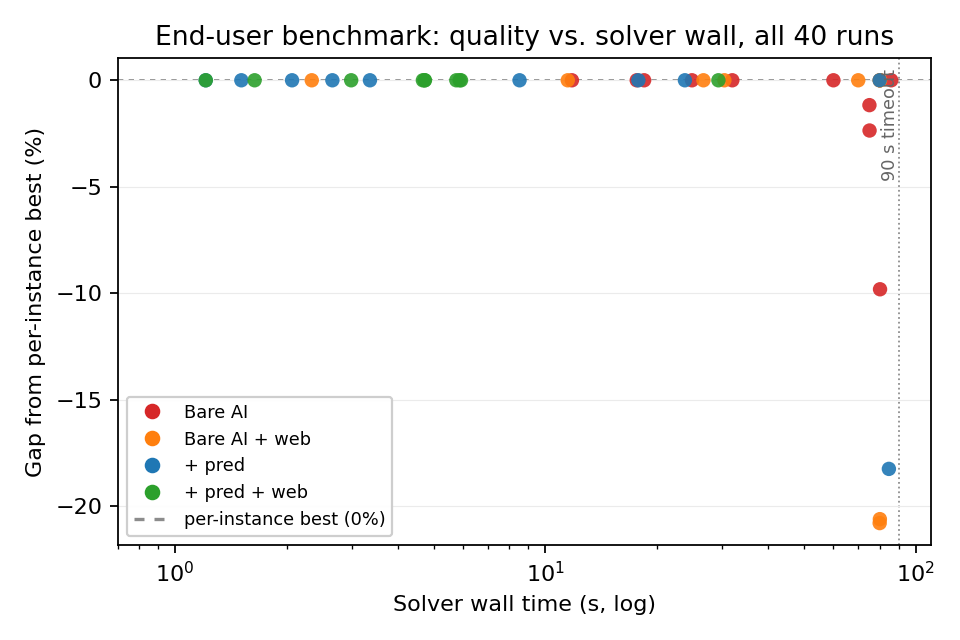
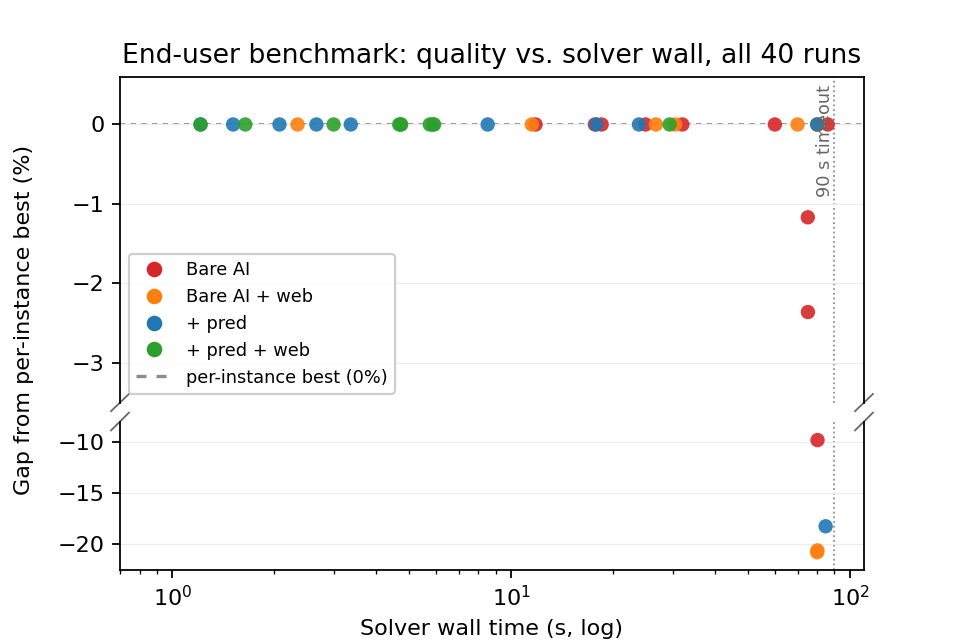
Auto-commit: Claude Code edits [11:05:36]

diff --git a/main.tex b/main.tex
@@ -508,7 +508,8 @@ Bare AI + web                        & 12{,}074 & 10{,}011 & 8/10  & 42{,}589 & 
 \includegraphics[width=0.85\linewidth]{figures/end_user_scatter.pdf}
 \caption{Per-run quality vs.\ solver wall-time across all 40 benchmark runs.
 Each marker is one (configuration, instance) pair; the y-axis shows the gap from the per-instance best objective achieved by any configuration on that instance, so the dashed line at $0\%$ is ``matched the best.''
-Catalog-enabled runs (\textcolor[HTML]{1f77b4}{\textbf{+pred}}, \textcolor[HTML]{2ca02c}{\textbf{+pred+web}}) sit on the upper-left ``fast and on-target'' line; the bare baselines (\textcolor[HTML]{d62728}{\textbf{Bare AI}}, \textcolor[HTML]{ff7f0e}{\textbf{Bare AI+web}}) spread further right and account for three of the four catastrophic misses that fall below $-8\%$.}
+The y-axis is broken between $-3.5\%$ and $-8\%$ to keep the main cluster legible alongside the four catastrophic misses.
+Catalog-enabled runs (\textcolor[HTML]{1f77b4}{\textbf{+pred}}, \textcolor[HTML]{2ca02c}{\textbf{+pred+web}}) sit on the upper-left ``fast and on-target'' line; the bare baselines (\textcolor[HTML]{d62728}{\textbf{Bare AI}}, \textcolor[HTML]{ff7f0e}{\textbf{Bare AI+web}}) spread further right and account for three of the four misses in the lower panel.}
 \label{fig:end-user-scatter}
 \end{figure}
 
